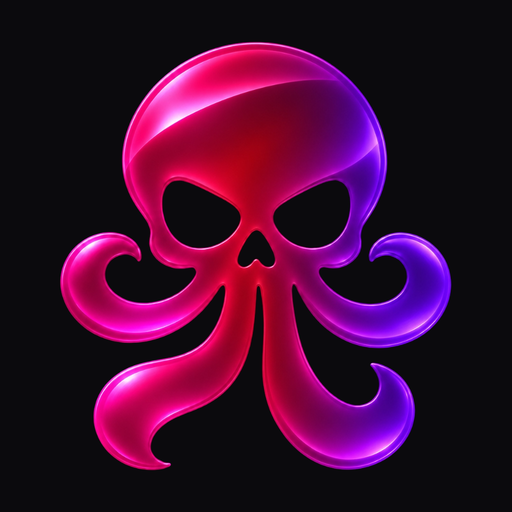
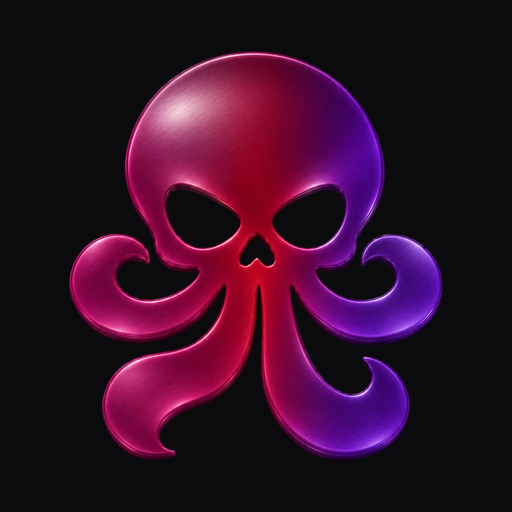
Swap in brushed-metal skull-octopus emblem across mafium.com and Oddmeter kick drum
- Regenerate favicon.ico (16/32/48), favicon-32, apple-touch, PWA icons,
  header wordmark mark, hero tile and OG card emblem from the new artwork
- Retrace the footer mask silhouette (mafium-mark.svg / -48.png) to the new shape
- Bump icon/manifest/og:image cache-bust to ?v=5 on every page that links them
- Redraw the Oddmeter kick drum crest as a 21x22 black pixel silhouette of the
  new emblem (eye sockets, V nose and curl holes show the drumhead; flashes
  crimson on the hit), drop the old head stripe, bump drummer8 cache version

Changed region(s): [[0.0938, 0.0625, 0.9062, 0.9375]]

diff --git a/oddmeter/drummer.js b/oddmeter/drummer.js
@@ -24,6 +24,48 @@ export const DRUM_VOICE_MAP = {
 const VH = 80;
 const MIN_KIT_VW = 172;
 
+// Mafium skull-octopus crest for the kick drum head: a 21x22 pixel silhouette
+// of the brand emblem. Eye sockets, nose and curl holes let the drumhead show through.
+const CREST_ROWS = [
+  '........#####........',
+  '......#########......',
+  '.....###########.....',
+  '....#############....',
+  '...###############...',
+  '...###############...',
+  '...###############...',
+  '...##..#######..##...',
+  '...##....###....##...',
+  '....##..#####..##....',
+  '.###.####...####.###.',
+  '###..#####.#####..###',
+  '###....#######....###',
+  '#####################',
+  '.######.#####.######.',
+  '...##..###.##...##...',
+  '....######.###.......',
+  '..#######..###...#...',
+  '..######..####.###...',
+  '..#####....########..',
+  '...##.......######...',
+  '....##.......####....',
+];
+
+function drawCrest(ctx, cx, cy, color) {
+  const left = cx - (CREST_ROWS[0].length >> 1);
+  const top = cy - (CREST_ROWS.length >> 1);
+  ctx.fillStyle = color;
+  for (let r = 0; r < CREST_ROWS.length; r++) {
+    const row = CREST_ROWS[r];
+    for (let c = 0; c < row.length;) {
+      let end = c + 1;
+      while (end < row.length && row[end] === row[c]) end++;
+      if (row[c] === '#') ctx.fillRect(left + c, top + r, end - c, 1);
+      c = end;
+    }
+  }
+}
+
 export function computeStageViewport(cssW, cssH, dpr = 1) {
   const safeW = Math.max(1, Math.floor(cssW));
   const safeH = Math.max(1, Math.floor(cssH));
@@ -1052,33 +1094,12 @@ export function createDrummerStage({ canvas, statusBadge = null, onTapPiece = nu
     drawEllipse(g, cx, kickY + 1, kickR + 1, kickR, '#0b0e17');
     drawEllipse(g, cx, kickY, kickR, kickR, kickPunch ? '#ffb04f' : '#29324a', '#0b0e17');
     drawEllipse(g, cx, kickY, kickR - 2, kickR - 2, kickPunch ? '#fffbeb' : '#f2efe6', kickPunch ? '#fde047' : '#94a3b8');
-    g.fillStyle = kickPunch ? '#fde68a' : '#dcd7c8';
-    g.fillRect(cx - 9, kickY + 9, 18, 2);
     g.fillStyle = '#cbd5e1';
     for (const [lx, ly] of [[-13, -5], [12, -5], [-13, 4], [12, 4], [0, -14]]) {
       g.fillRect(cx + lx, kickY + ly, 2, 2);
     }
-    // Pixel skull-octopus crest on the kick drum head
-    const headCol = kickPunch ? '#fffbeb' : '#f2efe6';
-    g.fillStyle = kickPunch ? '#c92556' : '#1b1a24';
-    // Skull cranium
-    g.fillRect(cx - 4, kickY - 7, 9, 2);
-    g.fillRect(cx - 5, kickY - 5, 11, 5);
-    g.fillRect(cx - 4, kickY, 9, 2);
-    // 4 curling tentacles
-    g.fillRect(cx - 8, kickY - 1, 2, 2);
-    g.fillRect(cx - 7, kickY + 1, 4, 2);
-    g.fillRect(cx + 7, kickY - 1, 2, 2);
-    g.fillRect(cx + 4, kickY + 1, 4, 2);
-    g.fillRect(cx - 4, kickY + 2, 3, 4);
-    g.fillRect(cx - 6, kickY + 5, 3, 2);
-    g.fillRect(cx + 2, kickY + 2, 3, 4);
-    g.fillRect(cx + 4, kickY + 5, 3, 2);
-    // Eye sockets & nasal cavity punched out in drumhead cream
-    g.fillStyle = headCol;
-    g.fillRect(cx - 4, kickY - 3, 3, 2);
-    g.fillRect(cx + 2, kickY - 3, 3, 2);
-    g.fillRect(cx, kickY - 1, 1, 2);
+    // Mafium skull-octopus crest on the kick drum head (black, flashes crimson on the hit)
+    drawCrest(g, cx, kickY, kickPunch ? '#c92556' : '#1b1a24');
 
     // 9. ARTICULATED PIXEL ARMS + OUTLINED DRUMSTICKS + MOTION SMEAR ARCS
     const drawArm = (side, shoulderX, shoulderY) => {

diff --git a/index.html b/index.html
@@ -20,16 +20,16 @@
   <meta property="og:title" content="Saad MAFiA — mafium">
   <meta property="og:description" content="Saad MAFiA — Music, Science, Games, and Photography.">
   <meta property="og:url" content="https://mafium.com/">
-  <meta property="og:image" content="https://mafium.com/images/brand/og-image.png">
+  <meta property="og:image" content="https://mafium.com/images/brand/og-image.png?v=5">
   <meta property="og:image:type" content="image/png">
   <meta property="og:image:width" content="1200">
   <meta property="og:image:height" content="630">
   <meta property="og:image:alt" content="Mafium skull-octopus emblem beside Saad MAFiA">
   <meta name="twitter:card" content="summary_large_image">
   <title>Saad MAFiA — mafium</title>
-  <link rel="icon" href="./images/brand/favicon-32.png?v=3" type="image/png" sizes="32x32">
-  <link rel="icon" href="./favicon.ico?v=3" sizes="48x48">
-  <link rel="apple-touch-icon" href="./images/brand/apple-touch-icon.png?v=4" sizes="180x180">
+  <link rel="icon" href="./images/brand/favicon-32.png?v=5" type="image/png" sizes="32x32">
+  <link rel="icon" href="./favicon.ico?v=5" sizes="48x48">
+  <link rel="apple-touch-icon" href="./images/brand/apple-touch-icon.png?v=5" sizes="180x180">
   <link rel="manifest" href="./site.webmanifest">
   <link rel="preconnect" href="https://fonts.googleapis.com">
   <link rel="preconnect" href="https://fonts.gstatic.com" crossorigin>

diff --git a/oddmeter/index.html b/oddmeter/index.html
@@ -19,9 +19,9 @@
   <meta property="og:image:alt" content="Oddmeter: a pixel drummer above a three-row beat and subdivision grid.">
   <meta name="twitter:card" content="summary_large_image">
   <link rel="manifest" href="./manifest.webmanifest">
-  <link rel="icon" href="../images/brand/favicon-32.png?v=3" type="image/png" sizes="32x32">
-  <link rel="icon" href="../favicon.ico?v=3" sizes="48x48">
-  <link rel="apple-touch-icon" href="../images/brand/apple-touch-icon.png?v=3" sizes="180x180">
+  <link rel="icon" href="../images/brand/favicon-32.png?v=5" type="image/png" sizes="32x32">
+  <link rel="icon" href="../favicon.ico?v=5" sizes="48x48">
+  <link rel="apple-touch-icon" href="../images/brand/apple-touch-icon.png?v=5" sizes="180x180">
   <link rel="preconnect" href="https://fonts.googleapis.com">
   <link rel="preconnect" href="https://fonts.gstatic.com" crossorigin>
   <link rel="stylesheet" href="https://fonts.googleapis.com/css2?family=Lexend:wght@400;500;600;700&display=swap">
@@ -31,7 +31,7 @@
     }
   </script>
   <link rel="stylesheet" href="./styles.css?v=drummer6-brand6">
-  <script type="module" src="./app.js?v=drummer6-brand5"></script>
+  <script type="module" src="./app.js?v=drummer8-brand5"></script>
 </head>
 <body>
   <header class="site-header">

diff --git a/zeta/index.html b/zeta/index.html
@@ -5,9 +5,9 @@
 <meta name="viewport" content="width=device-width, initial-scale=1, viewport-fit=cover">
 <meta name="description" content="Shift the Riemann zeta function so the critical line sits on the imaginary axis, watch the grid morph into the output, and check the zeros numerically.">
 <title>Zeta Shift Lab</title>
-<link rel="icon" href="../images/brand/favicon-32.png?v=3" type="image/png" sizes="32x32">
-<link rel="icon" href="../favicon.ico?v=3" sizes="48x48">
-<link rel="apple-touch-icon" href="../images/brand/apple-touch-icon.png?v=3" sizes="180x180">
+<link rel="icon" href="../images/brand/favicon-32.png?v=5" type="image/png" sizes="32x32">
+<link rel="icon" href="../favicon.ico?v=5" sizes="48x48">
+<link rel="apple-touch-icon" href="../images/brand/apple-touch-icon.png?v=5" sizes="180x180">
 <link rel="preconnect" href="https://fonts.googleapis.com">
 <link rel="preconnect" href="https://fonts.gstatic.com" crossorigin>
 <link rel="stylesheet" href="https://fonts.googleapis.com/css2?family=IBM+Plex+Mono:wght@400;500&family=IBM+Plex+Sans:ital,wght@0,400;0,500;0,600;1,400&family=STIX+Two+Text:ital,wght@0,500;0,600;1,500&display=swap">

diff --git a/oddmeter/app.js b/oddmeter/app.js
@@ -3,7 +3,7 @@ import { pulseSoundOptions, soundOptions } from './sounds.js?v=audio1';
 import { tempoBeats, rhythmPresets, parseGrouping, groupStarts, groupingChoices, editRhythmLane, snapshotBeat, pasteBeat, pasteBeats, moveBeat, insertBeat, insertBeats, deleteBeats } from './practice.js?v=delete1';
 import { readSettings, storageKey, defaultVolume, setupLinkPrefix, encodeSetupSnapshot, decodeSetupSnapshot, makeSetupLink, readSetupLink, makeIdeaLink, readIdeaParam } from './settings.js?v=delete1';
 import { authorNameFromUser, createFirebaseCloudAdapter, createIdeaStore, defaultGuestName, isDefaultIdeaTitle, orderIdeasForDisplay, readSavedAuthor, readSavedTitle, writeSavedAuthor, writeSavedTitle } from './ideas.js?v=ideas-order3';
-import { createDrummerStage, drummerStorageKey } from './drummer.js?v=drummer6-brand5';
+import { createDrummerStage, drummerStorageKey } from './drummer.js?v=drummer8-brand5';
 
 const byId = (id) => document.getElementById(id);
 const ui = {

diff --git a/chainreaction/privacy-policy.html b/chainreaction/privacy-policy.html
@@ -4,9 +4,9 @@
 <meta charset="utf-8">
 <meta name="viewport" content="width=device-width, initial-scale=1">
 <title>Chain Reaction — Privacy Policy</title>
-<link rel="icon" href="../images/brand/favicon-32.png?v=3" type="image/png" sizes="32x32">
-<link rel="icon" href="../favicon.ico?v=3" sizes="48x48">
-<link rel="apple-touch-icon" href="../images/brand/apple-touch-icon.png?v=3" sizes="180x180">
+<link rel="icon" href="../images/brand/favicon-32.png?v=5" type="image/png" sizes="32x32">
+<link rel="icon" href="../favicon.ico?v=5" sizes="48x48">
+<link rel="apple-touch-icon" href="../images/brand/apple-touch-icon.png?v=5" sizes="180x180">
 <style>
   :root { color-scheme: dark; }
   body {

diff --git a/save-firefox/index.html b/save-firefox/index.html
@@ -2,8 +2,8 @@
 <html>
     <head>
         <meta name="viewport" content="width=device-width, initial-scale=1.0, maximum-scale=1.0, user-scalable=no">
-        <link rel="icon" href="../images/brand/favicon-32.png?v=3" type="image/png" sizes="32x32">
-        <link rel="icon" href="../favicon.ico?v=3" sizes="48x48">
+        <link rel="icon" href="../images/brand/favicon-32.png?v=5" type="image/png" sizes="32x32">
+        <link rel="icon" href="../favicon.ico?v=5" sizes="48x48">
         <link rel="stylesheet" type="text/css" href="style.css">
         <link rel="preconnect" href="https://fonts.googleapis.com">
         <link rel="preconnect" href="https://fonts.gstatic.com" crossorigin>

diff --git a/privacy-policy.html b/privacy-policy.html
@@ -4,9 +4,9 @@
 <meta charset="utf-8">
 <meta name="viewport" content="width=device-width, initial-scale=1">
 <title>Chain Reaction — Privacy Policy</title>
-<link rel="icon" href="./images/brand/favicon-32.png?v=3" type="image/png" sizes="32x32">
-<link rel="icon" href="./favicon.ico?v=3" sizes="48x48">
-<link rel="apple-touch-icon" href="./images/brand/apple-touch-icon.png?v=3" sizes="180x180">
+<link rel="icon" href="./images/brand/favicon-32.png?v=5" type="image/png" sizes="32x32">
+<link rel="icon" href="./favicon.ico?v=5" sizes="48x48">
+<link rel="apple-touch-icon" href="./images/brand/apple-touch-icon.png?v=5" sizes="180x180">
 <style>
   :root { color-scheme: dark; }
   body {
